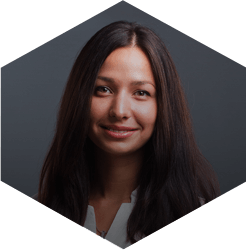
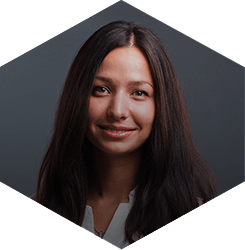
team img

diff --git a/wp-content/themes/ms/css/application.css b/wp-content/themes/ms/css/application.css
@@ -667,7 +667,7 @@ section.our_team{
       -webkit-background-size: cover;
     }
     section.our_team .line.second{
-      margin-top: -70px;
+      margin-top: -71px;
     }
   /* contacons wrapper*/
   .contacons{
@@ -676,7 +676,7 @@ section.our_team{
   }
   /* contacon item */
   .contacon{
-    width: 247px;
+    width: 245px;
     height: 250px;
     display: inline-block;
     position: relative;

diff --git a/wp-content/themes/ms/index.php b/wp-content/themes/ms/index.php
@@ -588,14 +588,14 @@
                 <div class="contacons contacons-lviv">
                     <div class="line first clearfix">
                         <div class="contacon">
-                            <svg class="svg-graphic" width="247" height="250" viewBox="0 0 247 250" xmlns="http://www.w3.org/2000/svg" xmlns:xlink="http://www.w3.org/1999/xlink" version="1.1">
+                            <svg class="svg-graphic" width="245" height="250" viewBox="0 0 245 250" xmlns="http://www.w3.org/2000/svg" xmlns:xlink="http://www.w3.org/1999/xlink" version="1.1">
                                 <g>
                                     <clipPath id="hex-mask_worker">
-                                        <polygon points="123,0 0,67 0,181 123,250 250,181 250,67 123,0" />
+                                        <polygon points="123,0 0,67 0,183 123,250 245,183 245,67 123,0" />
                                     </clipPath>
                                 </g>
                                 <a xlink:href="javascript:void(0);">
-                                    <polygon fill="#fff" points="123,0 0,67 0,181 123,250 250,181 250,67 123,0" transform="" />
+                                    <polygon fill="#fff" points="123,0 0,67 0,183 123,250 245,183 245,67 123,0" transform="" />
                                     <image clip-path="url(#hex-mask_worker)" height="100%" width="100%" xlink:href="<?php echo $pwd ?>img/ira_senuk.png" preserveAspectRatio="xMidYMin slice" />
                                     <p class="worker_pre">
                                         <span class="name">
@@ -621,14 +621,14 @@
                             <div class="contacon_fake"></div>
                         </div>
                         <div class="contacon">
-                            <svg class="svg-graphic" width="247" height="250" viewBox="0 0 247 250" xmlns="http://www.w3.org/2000/svg" xmlns:xlink="http://www.w3.org/1999/xlink" version="1.1">
+                            <svg class="svg-graphic" width="245" height="250" viewBox="0 0 245 250" xmlns="http://www.w3.org/2000/svg" xmlns:xlink="http://www.w3.org/1999/xlink" version="1.1">
                                 <g>
                                     <clipPath id="hex-mask_worker">
-                                        <polygon points="123,0 0,67 0,181 123,250 250,181 250,67 123,0" />
+                                        <polygon points="123,0 0,67 0,183 123,250 245,183 245,67 123,0" />
                                     </clipPath>
                                 </g>
                                 <a xlink:href="javascript:void(0);">
-                                    <polygon fill="#fff" points="123,0 0,67 0,181 123,250 250,181 250,67 123,0" transform="" />
+                                    <polygon fill="#fff" points="123,0 0,67 0,183 123,250 245,183 245,67 123,0" transform="" />
                                     <image clip-path="url(#hex-mask_worker)" height="100%" width="100%" xlink:href="<?php echo $pwd ?>img/galia_peskova.png" preserveAspectRatio="xMidYMin slice" />
                                     <p class="worker_pre">
                                         <span class="name">
@@ -653,15 +653,15 @@
                             </svg>
                             <div class="contacon_fake"></div>
                         </div>
-                        <!-- <div class="contacon">
-                            <svg class="svg-graphic" width="247" height="250" viewBox="0 0 247 250" xmlns="http://www.w3.org/2000/svg" xmlns:xlink="http://www.w3.org/1999/xlink" version="1.1">
+                        <div class="contacon">
+                            <svg class="svg-graphic" width="245" height="250" viewBox="0 0 245 250" xmlns="http://www.w3.org/2000/svg" xmlns:xlink="http://www.w3.org/1999/xlink" version="1.1">
                                 <g>
                                     <clipPath id="hex-mask_worker">
-                                        <polygon points="123,0 0,67 0,181 123,250 250,181 247,67 123,0" />
+                                        <polygon points="123,0 0,67 0,183 123,250 245,183 245,67 123,0" />
                                     </clipPath>
                                 </g>
                                 <a xlink:href="javascript:void(0);">
-                                    <polygon fill="#fff" points="123,0 0,67 0,181 123,250 250,181 247,67 123,0" transform="" />
+                                    <polygon fill="#fff" points="123,0 0,67 0,183 123,250 245,183 245,67 123,0" transform="" />
                                     <image clip-path="url(#hex-mask_worker)" height="100%" width="100%" xlink:href="<?php echo $pwd ?>img/vasyl_savchuk.png" preserveAspectRatio="xMidYMin slice" />
                                     <p class="worker_pre">
                                         <span class="name">
@@ -672,27 +672,31 @@
                                         </span>
                                     </p>
                                     <p class="worker_post">
-                                        <span class="number">
-                                            093 000 00 00
-                                        </span>
                                         <span class="mail">
-                                            mail@mail.mail
+                                            savchuk@ms-bud.com.ua
+                                        </span>
+                                        <span class="number">
+                                            097 321 00 77
+                                        </span>
+                                        <span class="get_call">
+                                            замовити дзвінок
                                         </span>
                                     </p>
                                 </a>
                             </svg>
-                        </div> -->
+                            <div class="contacon_fake"></div>
+                        </div>
                     </div>
-                    <!-- <div class="line second clearfix">
+                    <div class="line second clearfix">
                         <div class="contacon">
-                            <svg class="svg-graphic" width="247" height="250" viewBox="0 0 247 250" xmlns="http://www.w3.org/2000/svg" xmlns:xlink="http://www.w3.org/1999/xlink" version="1.1">
+                            <svg class="svg-graphic" width="245" height="250" viewBox="0 0 245 250" xmlns="http://www.w3.org/2000/svg" xmlns:xlink="http://www.w3.org/1999/xlink" version="1.1">
                                 <g>
                                     <clipPath id="hex-mask_worker">
-                                        <polygon points="123,0 0,67 0,181 123,250 250,181 247,67 123,0" />
+                                        <polygon points="123,0 0,67 0,183 123,250 245,183 245,67 123,0" />
                                     </clipPath>
                                 </g>
                                 <a xlink:href="javascript:void(0);">
-                                    <polygon fill="#fff" points="123,0 0,67 0,181 123,250 250,181 247,67 123,0" transform="" />
+                                    <polygon fill="#fff" points="123,0 0,67 0,183 123,250 245,183 245,67 123,0" transform="" />
                                     <image clip-path="url(#hex-mask_worker)" height="100%" width="100%" xlink:href="<?php echo $pwd ?>img/nadia_lukashuk.png" preserveAspectRatio="xMidYMin slice" />
                                     <p class="worker_pre">
                                         <span class="name">
@@ -703,138 +707,159 @@
                                         </span>
                                     </p>
                                     <p class="worker_post">
-                                        <span class="number">
-                                            093 000 00 00
-                                        </span>
                                         <span class="mail">
-                                            mail@mail.mail
+                                            hello@ms-bud.com.ua
+                                        </span>
+                                        <span class="number">
+                                            067 673 67 10
+                                        </span>
+                                        <span class="get_call">
+                                            замовити дзвінок
                                         </span>
                                     </p>
                                 </a>
                             </svg>
+                            <div class="contacon_fake"></div>
                         </div>
                         <div class="contacon">
-                            <svg class="svg-graphic" width="247" height="250" viewBox="0 0 247 250" xmlns="http://www.w3.org/2000/svg" xmlns:xlink="http://www.w3.org/1999/xlink" version="1.1">
+                            <svg class="svg-graphic" width="245" height="250" viewBox="0 0 245 250" xmlns="http://www.w3.org/2000/svg" xmlns:xlink="http://www.w3.org/1999/xlink" version="1.1">
                                 <g>
                                     <clipPath id="hex-mask_worker">
-                                        <polygon points="123,0 0,67 0,181 123,250 250,181 247,67 123,0" />
+                                        <polygon points="123,0 0,67 0,183 123,250 245,183 245,67 123,0" />
                                     </clipPath>
                                 </g>
                                 <a xlink:href="javascript:void(0);">
-                                    <polygon fill="#fff" points="123,0 0,67 0,181 123,250 250,181 247,67 123,0" transform="" />
+                                    <polygon fill="#fff" points="123,0 0,67 0,183 123,250 245,183 245,67 123,0" transform="" />
                                     <image clip-path="url(#hex-mask_worker)" height="100%" width="100%" xlink:href="<?php echo $pwd ?>img/birma_zaharova.png" preserveAspectRatio="xMidYMin slice" />
                                     <p class="worker_pre">
                                         <span class="name">
                                             Бірма Захарова
                                         </span>
                                         <span class="position">
-                                            керівник відділу продажу
+                                            керівник відділу <br> продажу
                                         </span>
                                     </p>
                                     <p class="worker_post">
-                                        <span class="number">
-                                            093 000 00 00
-                                        </span>
                                         <span class="mail">
-                                            mail@mail.mail
+                                            ms@ms-bud.com.ua
+                                        </span>
+                                        <span class="number">
+                                            (032) 26 01 333
+                                        </span>
+                                        <span class="get_call">
+                                            замовити дзвінок
                                         </span>
                                     </p>
                                 </a>
                             </svg>
-                        </div>
-                    </div> -->
-                </div>
-                <!-- <div class="contacons contacons-chernivci" style="display:none;">
-                    <div class="line first clearfix">
-                        <div class="contacon contacon_before">
-                            <svg class="svg-graphic" width="247" height="250" viewBox="0 0 247 250" xmlns="http://www.w3.org/2000/svg" xmlns:xlink="http://www.w3.org/1999/xlink" version="1.1">
-                                <g>
-                                    <clipPath id="hex-mask_worker">
-                                        <polygon points="123,0 0,67 0,181 123,250 250,181 247,67 123,0" />
-                                    </clipPath>
-                                </g>
-                                <a xlink:href="javascript:void(0);">
-                                    <polygon fill="#fff" points="123,0 0,67 0,181 123,250 250,181 247,67 123,0" transform="" />
-                                    <image clip-path="url(#hex-mask_worker)" height="100%" width="100%" xlink:href="<?php echo $pwd ?>img/ira_senuk.png" preserveAspectRatio="xMidYMin slice" />
-                                    <p class="worker_pre">
-                                        <span class="name">
-                                            Іра Сеник
-                                        </span>
-                                        <span class="position">
-                                            персональний консультант
-                                        </span>
-                                    </p>
-                                    <p class="worker_post">
-                                        <span class="number">
-                                            093 000 00 00
-                                        </span>
-                                        <span class="mail">
-                                            horseinbathroom@mail.mail
-                                        </span>
-                                    </p>
-                                </a>
-                            </svg>
-                        </div>
-                        <div class="contacon">
-                            <svg class="svg-graphic" width="247" height="250" viewBox="0 0 247 250" xmlns="http://www.w3.org/2000/svg" xmlns:xlink="http://www.w3.org/1999/xlink" version="1.1">
-                                <g>
-                                    <clipPath id="hex-mask_worker">
-                                        <polygon points="123,0 0,67 0,181 123,250 250,181 247,67 123,0" />
-                                    </clipPath>
-                                </g>
-                                <a xlink:href="javascript:void(0);">
-                                    <polygon fill="#fff" points="123,0 0,67 0,181 123,250 250,181 247,67 123,0" transform="" />
-                                    <image clip-path="url(#hex-mask_worker)" height="100%" width="100%" xlink:href="<?php echo $pwd ?>img/galia_peskova.png" preserveAspectRatio="xMidYMin slice" />
-                                    <p class="worker_pre">
-                                        <span class="name">
-                                            Галя Пєскова
-                                        </span>
-                                        <span class="position">
-                                            персональний консультант
-                                        </span>
-                                    </p>
-                                    <p class="worker_post">
-                                        <span class="number">
-                                            093 000 00 00
-                                        </span>
-                                        <span class="mail">
-                                            mail@mail.mail
-                                        </span>
-                                    </p>
-                                </a>
-                            </svg>
-                        </div>
-                        <div class="contacon">
-                            <svg class="svg-graphic" width="247" height="250" viewBox="0 0 247 250" xmlns="http://www.w3.org/2000/svg" xmlns:xlink="http://www.w3.org/1999/xlink" version="1.1">
-                                <g>
-                                    <clipPath id="hex-mask_worker">
-                                        <polygon points="123,0 0,67 0,181 123,250 250,181 247,67 123,0" />
-                                    </clipPath>
-                                </g>
-                                <a xlink:href="javascript:void(0);">
-                                    <polygon fill="#fff" points="123,0 0,67 0,181 123,250 250,181 247,67 123,0" transform="" />
-                                    <image clip-path="url(#hex-mask_worker)" height="100%" width="100%" xlink:href="<?php echo $pwd ?>img/vasyl_savchuk.png" preserveAspectRatio="xMidYMin slice" />
-                                    <p class="worker_pre">
-                                        <span class="name">
-                                            Василь Савчук
-                                        </span>
-                                        <span class="position">
-                                            персональний консультант
-                                        </span>
-                                    </p>
-                                    <p class="worker_post">
-                                        <span class="number">
-                                            093 000 00 00
-                                        </span>
-                                        <span class="mail">
-                                            mail@mail.mail
-                                        </span>
-                                    </p>
-                                </a>
-                            </svg>
+                            <div class="contacon_fake"></div>
                         </div>
                     </div>
-                </div> -->
+                </div>
+                <div class="contacons contacons-chernivci" style="display:none;">
+                    <div class="line first clearfix">
+                        <div class="contacon contacon_before">
+                            <svg class="svg-graphic" width="245" height="250" viewBox="0 0 245 250" xmlns="http://www.w3.org/2000/svg" xmlns:xlink="http://www.w3.org/1999/xlink" version="1.1">
+                                <g>
+                                    <clipPath id="hex-mask_worker">
+                                        <polygon points="123,0 0,67 0,183 123,250 250,183 245,67 123,0" />
+                                    </clipPath>
+                                </g>
+                                <a xlink:href="javascript:void(0);">
+                                    <polygon fill="#fff" points="123,0 0,67 0,183 123,250 250,183 245,67 123,0" transform="" />
+                                    <image clip-path="url(#hex-mask_worker)" height="100%" width="100%" xlink:href="<?php echo $pwd ?>img/sviatoslav_lucushun.png" preserveAspectRatio="xMidYMin slice" />
+                                    <p class="worker_pre">
+                                        <span class="name">
+                                            Святослав Луцишин
+                                        </span>
+                                        <span class="position">
+                                           керівник відділу <br> продажу
+                                        </span>
+                                    </p>
+                                    <p class="worker_post">
+                                        <span class="mail">
+                                            sv@ms-bud.com.ua
+                                        </span>
+                                        <span class="number">
+                                            050 430 33 34
+                                        </span>
+                                        <span class="get_call">
+                                            замовити дзвінок
+                                        </span>
+                                    </p>
+                                </a>
+                            </svg>
+                            <div class="contacon_fake"></div>
+                        </div>
+                        <div class="contacon">
+                            <svg class="svg-graphic" width="245" height="250" viewBox="0 0 245 250" xmlns="http://www.w3.org/2000/svg" xmlns:xlink="http://www.w3.org/1999/xlink" version="1.1">
+                                <g>
+                                    <clipPath id="hex-mask_worker">
+                                        <polygon points="123,0 0,67 0,183 123,250 250,183 245,67 123,0" />
+                                    </clipPath>
+                                </g>
+                                <a xlink:href="javascript:void(0);">
+                                    <polygon fill="#fff" points="123,0 0,67 0,183 123,250 250,183 245,67 123,0" transform="" />
+                                    <image clip-path="url(#hex-mask_worker)" height="100%" width="100%" xlink:href="<?php echo $pwd ?>img/irina_romanuk.png" preserveAspectRatio="xMidYMin slice" />
+                                    <p class="worker_pre">
+                                        <span class="name">
+                                            Ірина Романюк
+                                        </span>
+                                        <span class="position">
+                                            заступник керівника <br>
+                                            відділу продажу
+                                        </span>
+                                    </p>
+                                    <p class="worker_post">
+                                        <span class="mail">
+                                            iryna@ms-bud.com.ua
+                                        </span>
+                                        <span class="number">
+                                            098 231 77 00
+                                        </span>
+                                        <span class="get_call">
+                                            замовити дзвінок
+                                        </span>
+                                    </p>
+                                </a>
+                            </svg>
+                            <div class="contacon_fake"></div>
+                        </div>
+                        <div class="contacon">
+                            <svg class="svg-graphic" width="245" height="250" viewBox="0 0 245 250" xmlns="http://www.w3.org/2000/svg" xmlns:xlink="http://www.w3.org/1999/xlink" version="1.1">
+                                <g>
+                                    <clipPath id="hex-mask_worker">
+                                        <polygon points="123,0 0,67 0,183 123,250 250,183 245,67 123,0" />
+                                    </clipPath>
+                                </g>
+                                <a xlink:href="javascript:void(0);">
+                                    <polygon fill="#fff" points="123,0 0,67 0,183 123,250 250,183 245,67 123,0" transform="" />
+                                    <image clip-path="url(#hex-mask_worker)" height="100%" width="100%" xlink:href="<?php echo $pwd ?>img/galina_nayda.png" preserveAspectRatio="xMidYMin slice" />
+                                    <p class="worker_pre">
+                                        <span class="name">
+                                            Галина Найда
+                                        </span>
+                                        <span class="position">
+                                            персональний <br> консультант
+                                        </span>
+                                    </p>
+                                    <p class="worker_post">
+                                        <span class="mail">
+                                            gn@ms-bud.com.ua
+                                        </span>
+                                        <span class="number">
+                                            050 430 93 33
+                                        </span>
+                                        <span class="get_call">
+                                            замовити дзвінок
+                                        </span>
+                                    </p>
+                                </a>
+                            </svg>
+                            <div class="contacon_fake"></div>
+                        </div>
+                    </div>
+                </div>
             </div>
         </div>
         <div class="fake"></div>
